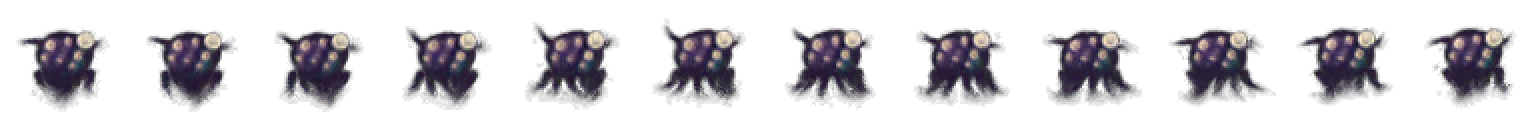
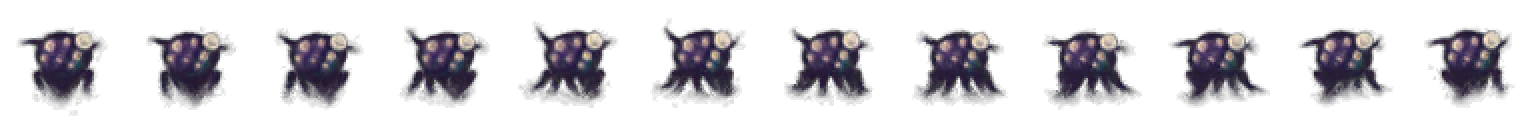
Shoggoth walk-cycle weights + trainer warm-start (--init)
12k iters; gait verified via Metal render-seq. Murkier than Lain (10x
larger motion deltas); continuation run with --init warm-start and
lowered lr is sharpening it live via hot-reload.

diff --git a/training/train_cyclic.py b/training/train_cyclic.py
@@ -102,6 +102,24 @@ def damage(x):
     return x
 
 
+def load_nca2(model, path):
+    """Warm-start from an exported NCA2 file (continuation training)."""
+    import struct
+
+    with open(path, "rb") as f:
+        assert f.read(4) == b"NCA2", "not an NCA2 file"
+        ch, hid, cond = struct.unpack("<3i", f.read(12))
+        assert (ch, hid, cond) == (CH, HIDDEN, COND), "shape mismatch"
+        f.read(4)  # fire rate
+        def arr(n):
+            return np.frombuffer(f.read(n * 4), dtype="<f4").copy()
+        with torch.no_grad():
+            model.w1.weight.copy_(torch.from_numpy(arr(HIDDEN * (CH * 3 + COND))).view(HIDDEN, CH * 3 + COND, 1, 1))
+            model.w1.bias.copy_(torch.from_numpy(arr(HIDDEN)))
+            model.w2.weight.copy_(torch.from_numpy(arr(CH * HIDDEN)).view(CH, HIDDEN, 1, 1))
+            model.w2.bias.copy_(torch.from_numpy(arr(CH)))
+
+
 def export(model, path):
     with open(path, "wb") as f:
         f.write(b"NCA2")
@@ -141,6 +159,8 @@ def main():
     ap.add_argument("--iters", type=int, default=12000)
     ap.add_argument("--out", default=None)
     ap.add_argument("--device", default="mps" if torch.backends.mps.is_available() else "cpu")
+    ap.add_argument("--init", default=None, help="warm-start from an exported .nca")
+    ap.add_argument("--lr", type=float, default=2e-3)
     args = ap.parse_args()
     _load_creature(args.creature)
     if args.out is None:
@@ -152,7 +172,10 @@ def main():
 
     frames_t = torch.from_numpy(make_frames()).permute(0, 1, 4, 2, 3).to(device)  # (B,F,4,H,W)
     model = CyclicNCA().to(device)
-    opt = torch.optim.Adam(model.parameters(), lr=2e-3)
+    if args.init:
+        load_nca2(model, args.init)
+        print(f"warm-started from {args.init}", flush=True)
+    opt = torch.optim.Adam(model.parameters(), lr=args.lr)
     sched = torch.optim.lr_scheduler.MultiStepLR(opt, milestones=[4000], gamma=0.1)
 
     pool = make_seed(POOL_SIZE, device)